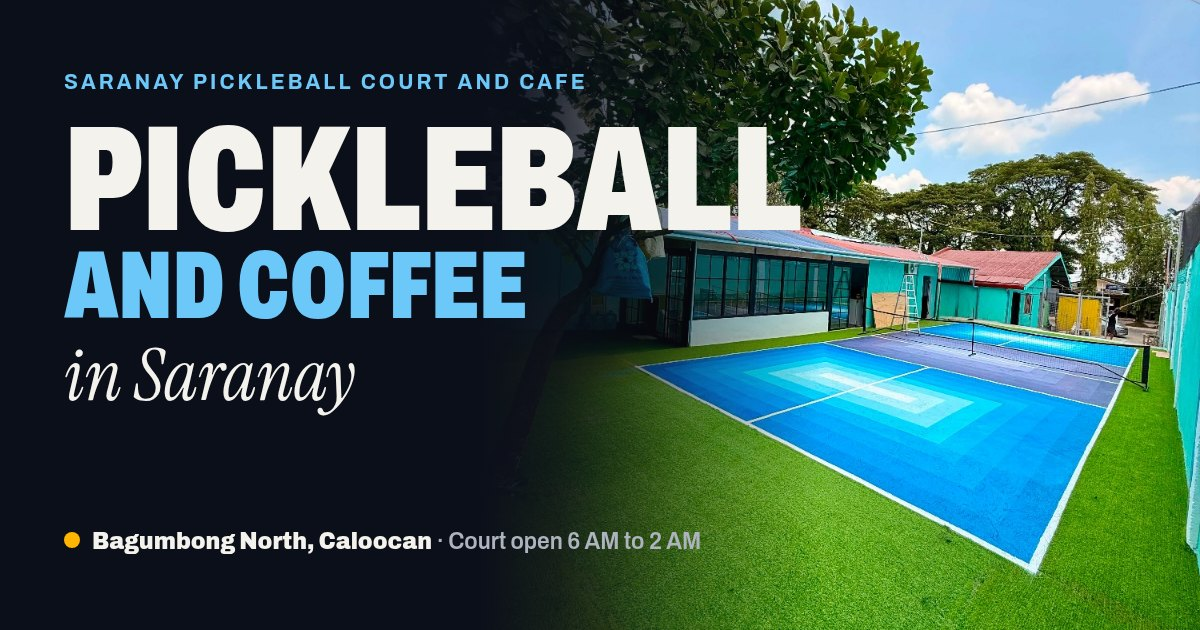
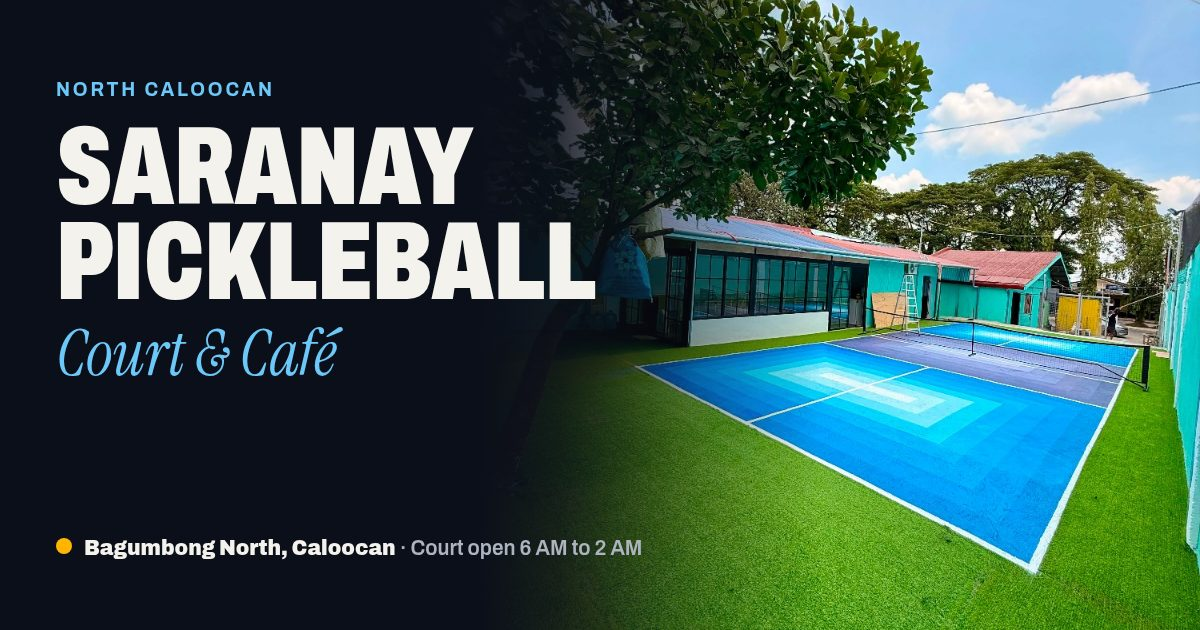
RC4.9.2: exact brand name, new share image, nav fit 768–1024 (Jon)
Rebuild og-share-1200x630.jpg with SARANAY / PICKLEBALL / Court & Café
(hero lockup) on the court photo; bump ?v=3.15.2; fix og/twitter alts
and copy-pin brand. Desktop nav from 64rem so mid widths use the menu
with Café visible and no clip.

Changed region(s): [[0.0308, 0.181, 0.6783, 0.6635], [0.0308, 0.8444, 0.5858, 0.9048], [0.0308, 0.1206, 0.4933, 0.1508]]

diff --git a/cafe/index.html b/cafe/index.html
@@ -21,14 +21,14 @@
   <meta property="og:url" content="https://jomiwi.github.io/sp-demo-b3b9e2/cafe/">
   <!-- RC4 (Ling RC3 read): the share image is og-share-1200x630.jpg, built from Saranay's own court photo (court-sky, their Sports360 gallery). The Studio-generated og-hero set below returns only when ai_images is set in _build/owner-ok.json. -->
   <!--rights-else:ai_images-->
-  <meta property="og:image" content="https://jomiwi.github.io/sp-demo-b3b9e2/img/og-share-1200x630.jpg?v=3.15">
-  <meta property="og:image:secure_url" content="https://jomiwi.github.io/sp-demo-b3b9e2/img/og-share-1200x630.jpg?v=3.15">
+  <meta property="og:image" content="https://jomiwi.github.io/sp-demo-b3b9e2/img/og-share-1200x630.jpg?v=3.15.2">
+  <meta property="og:image:secure_url" content="https://jomiwi.github.io/sp-demo-b3b9e2/img/og-share-1200x630.jpg?v=3.15.2">
   <meta property="og:image:type" content="image/jpeg">
   <meta property="og:image:width" content="1200">
   <meta property="og:image:height" content="630">
-  <meta property="og:image:alt" content="Saranay Pickleball Court &amp; Café: the headline Pickleball and Coffee in Saranay, beside a photo of the blue court on green turf.">
-  <meta name="twitter:image" content="https://jomiwi.github.io/sp-demo-b3b9e2/img/og-share-1200x630.jpg?v=3.15">
-  <meta name="twitter:image:alt" content="Saranay Pickleball Court &amp; Café: the headline Pickleball and Coffee in Saranay, beside a photo of the blue court on green turf.">
+  <meta property="og:image:alt" content="Saranay Pickleball Court &amp; Café: the headline Saranay Pickleball, Court &amp; Café, beside a photo of the blue court on green turf.">
+  <meta name="twitter:image" content="https://jomiwi.github.io/sp-demo-b3b9e2/img/og-share-1200x630.jpg?v=3.15.2">
+  <meta name="twitter:image:alt" content="Saranay Pickleball Court &amp; Café: the headline Saranay Pickleball, Court &amp; Café, beside a photo of the blue court on green turf.">
   <!--/rights-else-->
   <!--rights-if:ai_images
   <meta property="og:image" content="https://jomiwi.github.io/sp-demo-b3b9e2/img/og-hero-1200x630.jpg?v=3.15">
@@ -311,7 +311,7 @@
     <p><strong>Instagram:</strong> <a href="https://www.instagram.com/drafaelscafe/" target="_blank" rel="noopener" data-cta="cafe_page_instagram_cafe" data-dest="instagram">@drafaelscafe<span class="visually-hidden"> (opens in a new tab)</span></a> for the café.</p>
     <div class="btn-row">
       <a class="btn" href="https://maps.app.goo.gl/ZfC7mDdgYcpLxBRT7" data-cta="cafe_page_open_in_google_maps" data-dest="directions">Open in Google Maps</a>
-      <button class="btn btn--outline" type="button" id="copy-pin" data-copy="Saranay Pickleball Court and Cafe, Saranay Homes, Block 5 Lot 13 Saranay Road, Bagumbong North, Caloocan. Map: https://maps.app.goo.gl/ZfC7mDdgYcpLxBRT7">
+      <button class="btn btn--outline" type="button" id="copy-pin" data-copy="Saranay Pickleball Court &amp; Café, Saranay Homes, Block 5 Lot 13 Saranay Road, Bagumbong North, Caloocan. Map: https://maps.app.goo.gl/ZfC7mDdgYcpLxBRT7">
         <svg viewBox="0 0 24 24" aria-hidden="true"><rect x="8" y="8" width="12" height="12" rx="2" fill="none" stroke="currentColor" stroke-width="2"/><path d="M16 8V6a2 2 0 0 0-2-2H6a2 2 0 0 0-2 2v8a2 2 0 0 0 2 2h2" fill="none" stroke="currentColor" stroke-width="2"/></svg>
         Copy location pin</button>
       <a class="btn btn--outline" href="tel:+639065458384" data-cta="cafe_page_call_us" data-dest="call">Call us</a>

diff --git a/index.html b/index.html
@@ -21,14 +21,14 @@
   <meta property="og:url" content="https://jomiwi.github.io/sp-demo-b3b9e2/">
   <!-- RC4 (Ling RC3 read): the share image is og-share-1200x630.jpg, built from Saranay's own court photo (court-sky, their Sports360 gallery). The Studio-generated og-hero set below returns only when ai_images is set in _build/owner-ok.json. -->
   <!--rights-else:ai_images-->
-  <meta property="og:image" content="https://jomiwi.github.io/sp-demo-b3b9e2/img/og-share-1200x630.jpg?v=3.15">
-  <meta property="og:image:secure_url" content="https://jomiwi.github.io/sp-demo-b3b9e2/img/og-share-1200x630.jpg?v=3.15">
+  <meta property="og:image" content="https://jomiwi.github.io/sp-demo-b3b9e2/img/og-share-1200x630.jpg?v=3.15.2">
+  <meta property="og:image:secure_url" content="https://jomiwi.github.io/sp-demo-b3b9e2/img/og-share-1200x630.jpg?v=3.15.2">
   <meta property="og:image:type" content="image/jpeg">
   <meta property="og:image:width" content="1200">
   <meta property="og:image:height" content="630">
-  <meta property="og:image:alt" content="Saranay Pickleball Court &amp; Café: the headline Pickleball and Coffee in Saranay, beside a photo of the blue court on green turf.">
-  <meta name="twitter:image" content="https://jomiwi.github.io/sp-demo-b3b9e2/img/og-share-1200x630.jpg?v=3.15">
-  <meta name="twitter:image:alt" content="Saranay Pickleball Court &amp; Café: the headline Pickleball and Coffee in Saranay, beside a photo of the blue court on green turf.">
+  <meta property="og:image:alt" content="Saranay Pickleball Court &amp; Café: the headline Saranay Pickleball, Court &amp; Café, beside a photo of the blue court on green turf.">
+  <meta name="twitter:image" content="https://jomiwi.github.io/sp-demo-b3b9e2/img/og-share-1200x630.jpg?v=3.15.2">
+  <meta name="twitter:image:alt" content="Saranay Pickleball Court &amp; Café: the headline Saranay Pickleball, Court &amp; Café, beside a photo of the blue court on green turf.">
   <!--/rights-else-->
   <!--rights-if:ai_images
   <meta property="og:image" content="https://jomiwi.github.io/sp-demo-b3b9e2/img/og-hero-1200x630.jpg?v=3.15">
@@ -505,7 +505,7 @@
       </dl>
       <div class="btn-row">
         <a class="btn" href="https://maps.app.goo.gl/ZfC7mDdgYcpLxBRT7" data-cta="find_us_open_in_google_maps" data-dest="directions">Open in Google Maps</a>
-        <button class="btn btn--outline" type="button" id="copy-pin" data-copy="Saranay Pickleball Court and Cafe, Saranay Homes, Block 5 Lot 13 Saranay Road, Bagumbong North, Caloocan. Map: https://maps.app.goo.gl/ZfC7mDdgYcpLxBRT7">
+        <button class="btn btn--outline" type="button" id="copy-pin" data-copy="Saranay Pickleball Court &amp; Café, Saranay Homes, Block 5 Lot 13 Saranay Road, Bagumbong North, Caloocan. Map: https://maps.app.goo.gl/ZfC7mDdgYcpLxBRT7">
           <svg viewBox="0 0 24 24" aria-hidden="true"><rect x="8" y="8" width="12" height="12" rx="2" fill="none" stroke="currentColor" stroke-width="2"/><path d="M16 8V6a2 2 0 0 0-2-2H6a2 2 0 0 0-2 2v8a2 2 0 0 0 2 2h2" fill="none" stroke="currentColor" stroke-width="2"/></svg>
           Copy location pin</button>
         <a class="btn btn--outline" href="tel:+639065458384" data-cta="find_us_call_us" data-dest="call">Call us</a>

diff --git a/styles.css b/styles.css
@@ -1,4 +1,4 @@
-/* Saranay Pickleball Court and Cafe · demo styles v3.0
+/* Saranay Pickleball Court & Café · demo styles v3.0
    Visual identity rebuilt from the venue itself: royal-blue court, sky-blue kitchen, the amber ball from the logo, night ink.
    Type: Archivo (condensed, heavy) for display, Instrument Serif italic for accents, Archivo for body.
    Every color, size and space below is a token. Components only read tokens. */
@@ -131,10 +131,10 @@ a:hover { color: var(--c-court-deep); text-decoration-thickness: 2px; }
 .site-nav a:hover { color: var(--c-sky); }
 .site-nav .btn { margin-top: var(--s-5); }
 .site-nav a.btn { font: var(--fw-bold) var(--fs-base)/1 var(--font-body); text-transform: none; justify-content: center; border-bottom: 0; color: var(--btn-ink); }
-@media (min-width: 60rem) {
+@media (min-width: 64rem) {
   .nav-toggle { display: none; }
-  .site-nav, .site-nav[hidden] { display: flex; position: static; background: none; border: 0; box-shadow: none; padding: 0; align-items: center; gap: var(--s-6); }
-  .site-nav ul { display: flex; gap: var(--s-6); }
+  .site-nav, .site-nav[hidden] { display: flex; position: static; background: none; border: 0; box-shadow: none; padding: 0; align-items: center; gap: var(--s-6); flex-wrap: nowrap; }
+  .site-nav ul { display: flex; gap: var(--s-6); flex-wrap: nowrap; }
   .site-nav a { border: 0; min-height: var(--tap); font: var(--fw-semibold) var(--fs-sm)/1 var(--font-body); text-transform: none; color: var(--c-on-dark-muted); }
   .site-nav a:hover { color: var(--c-on-dark); }
   .site-nav .btn { margin-top: 0; }
@@ -665,13 +665,13 @@ a.next-play .next-play__go { color: var(--c-sky); }
    Rent the court, New here? and FAQ stay in the phone menu and on the page. */
 .site-nav__ctas { display: grid; gap: var(--s-2); margin-top: var(--s-5); }
 .site-nav__ctas .btn { margin-top: 0; }
-@media (min-width: 60rem) {
+@media (min-width: 64rem) {
   .site-nav .nav__extra { display: none; }
-  .site-nav__ctas { display: flex; margin-top: 0; }
+  .site-nav__ctas { display: flex; margin-top: 0; flex-wrap: nowrap; }
   .site-nav__ctas .btn { min-height: var(--tap); padding-inline: var(--s-5); white-space: nowrap; }
 }
-/* RC4.9.1: Café back in the desktop nav (5 links). Tighten gap under ~72rem so 1024 fits without wrap. */
-@media (min-width: 60rem) and (max-width: 71.99rem) {
+/* RC4.9.2: desktop nav from 64rem (1024px) so 768–1023 use the menu (Café included, no clip). Tighten under ~72rem. */
+@media (min-width: 64rem) and (max-width: 71.99rem) {
   .site-nav, .site-nav[hidden] { gap: var(--s-4); }
   .site-nav ul { gap: var(--s-4); }
   .site-nav__ctas .btn { padding-inline: var(--s-4); }

diff --git a/pickleball-for-beginners/index.html b/pickleball-for-beginners/index.html
@@ -21,14 +21,14 @@
   <meta property="og:url" content="https://jomiwi.github.io/sp-demo-b3b9e2/pickleball-for-beginners/">
   <!-- RC4 (Ling RC3 read): the share image is og-share-1200x630.jpg, built from Saranay's own court photo (court-sky, their Sports360 gallery). The Studio-generated og-hero set below returns only when ai_images is set in _build/owner-ok.json. -->
   <!--rights-else:ai_images-->
-  <meta property="og:image" content="https://jomiwi.github.io/sp-demo-b3b9e2/img/og-share-1200x630.jpg?v=3.15">
-  <meta property="og:image:secure_url" content="https://jomiwi.github.io/sp-demo-b3b9e2/img/og-share-1200x630.jpg?v=3.15">
+  <meta property="og:image" content="https://jomiwi.github.io/sp-demo-b3b9e2/img/og-share-1200x630.jpg?v=3.15.2">
+  <meta property="og:image:secure_url" content="https://jomiwi.github.io/sp-demo-b3b9e2/img/og-share-1200x630.jpg?v=3.15.2">
   <meta property="og:image:type" content="image/jpeg">
   <meta property="og:image:width" content="1200">
   <meta property="og:image:height" content="630">
-  <meta property="og:image:alt" content="Saranay Pickleball Court &amp; Café: the headline Pickleball and Coffee in Saranay, beside a photo of the blue court on green turf.">
-  <meta name="twitter:image" content="https://jomiwi.github.io/sp-demo-b3b9e2/img/og-share-1200x630.jpg?v=3.15">
-  <meta name="twitter:image:alt" content="Saranay Pickleball Court &amp; Café: the headline Pickleball and Coffee in Saranay, beside a photo of the blue court on green turf.">
+  <meta property="og:image:alt" content="Saranay Pickleball Court &amp; Café: the headline Saranay Pickleball, Court &amp; Café, beside a photo of the blue court on green turf.">
+  <meta name="twitter:image" content="https://jomiwi.github.io/sp-demo-b3b9e2/img/og-share-1200x630.jpg?v=3.15.2">
+  <meta name="twitter:image:alt" content="Saranay Pickleball Court &amp; Café: the headline Saranay Pickleball, Court &amp; Café, beside a photo of the blue court on green turf.">
   <!--/rights-else-->
   <!--rights-if:ai_images
   <meta property="og:image" content="https://jomiwi.github.io/sp-demo-b3b9e2/img/og-hero-1200x630.jpg?v=3.15">
